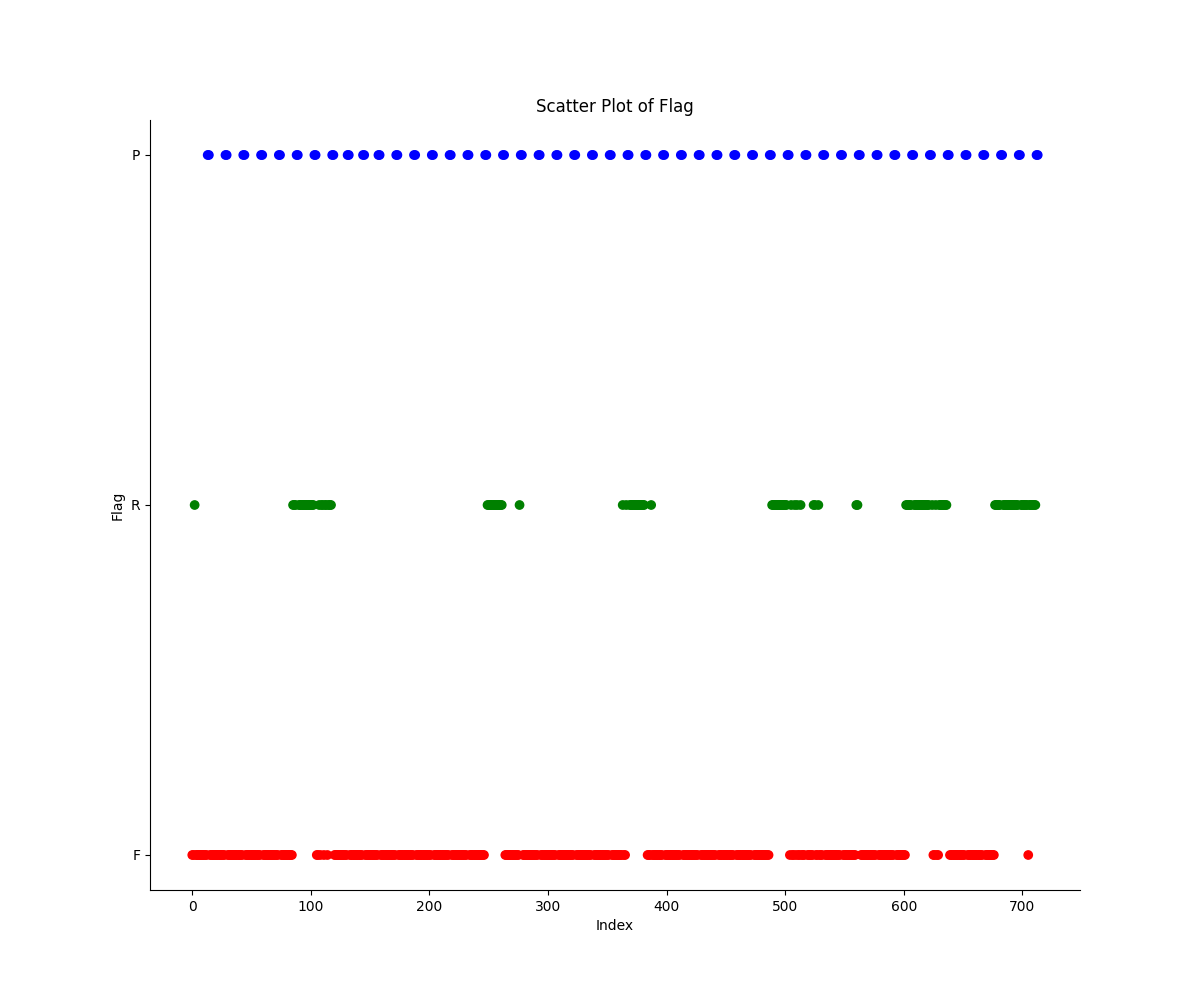
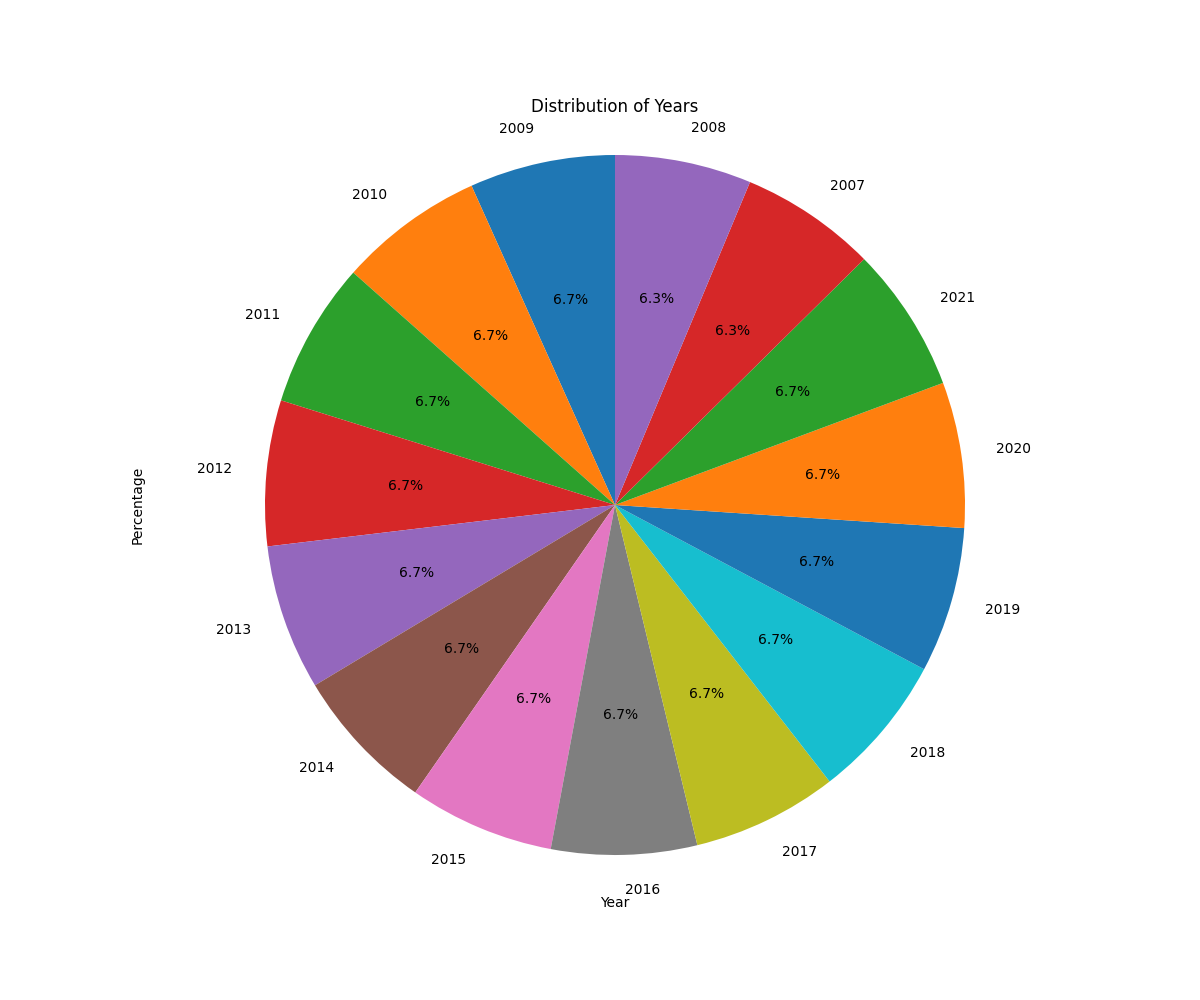
code module

diff --git a/main.py b/main.py
@@ -13,11 +13,12 @@ load_dotenv()
 openai.api_key = os.getenv("OPENAI_API_KEY")
 
 figure = "my_plot1"
+code = "generated_script.py"
 plot_area = None
 path = ""
 question = " Ask me a question about the data. " 
 primer1,primer2 = "",""
-
+answer=""
 
 
 
@@ -37,14 +38,11 @@ Graphy_app = """
 |>
 
 <|
-<|{figure}|file_download|label=Download|>
+<|{figure}|file_download|label=Download Graph|><|{code}|file_download|label=Download Code|>
 |>
 
 <|{figure}|image|width="700px"|>
 
-<|
-<|{answer}|>
-|>
 
 
 
@@ -78,7 +76,7 @@ def plot_graph(state) -> None:
     try:
         if os.path.exists('my_plot1.png'):
             os.remove('my_plot1.png')
-            
+
         # Format the question 
         question_to_ask = format_question(primer1, primer2, state.question)   
         print(question_to_ask)
@@ -92,6 +90,7 @@ def plot_graph(state) -> None:
         answer = answer + "\nmy_plot = plt.gcf()\n" + "my_plot.savefig('my_plot1.png')\n"
         
         print(answer,"\n end")
+        
         state.answer = answer
         # plot_area = 
         # plot_area = exec(answer)
@@ -106,7 +105,8 @@ def plot_graph(state) -> None:
         # exec(answer)  
         #sleep the program for 1 second to allow the file to be created
         time.sleep(1)
-        state.figure = "my_plot1.png"   
+        state.figure = "my_plot1.png"       
+        state.code = "generated_script.py"
         state.df = df
     except Exception as e:
         if type(e) == openai.error.APIError:

diff --git a/generated_script.py b/generated_script.py
@@ -4,14 +4,31 @@ fig,ax = plt.subplots(1,1,figsize=(12,10))
 ax.spines['top'].set_visible(False)
 ax.spines['right'].set_visible(False) 
 df=pd.read_csv("data.csv")
-df['flag'] = df['flag'].astype('category')
-fig,ax = plt.subplots(1,1,figsize=(12,10))
-ax.spines['top'].set_visible(False)
-ax.spines['right'].set_visible(False)
-colors = {'F':'red', 'R':'green', 'P':'blue'}
-ax.scatter(df.index, df['flag'], c=df['flag'].map(colors))
-ax.set_xlabel('Index')
-ax.set_ylabel('Flag')
-ax.set_title('Scatter Plot of Flag')
+# Filter the dataframe to only include the 'year' column
+year_df = df['year']
+
+# Group the values by year and count the occurrences
+year_counts = year_df.value_counts()
+
+# Get the labels and sizes for the pie chart
+labels = year_counts.index.tolist()
+sizes = year_counts.values.tolist()
+
+# Create the pie chart
+plt.pie(sizes, labels=labels, startangle=90, autopct='%1.1f%%')
+plt.axis('equal')
+
+# Set the title and labels
+plt.title('Distribution of Years')
+plt.xlabel('Year')
+
+# Set the x and y axes labels
+plt.xlabel('Year')
+plt.ylabel('Percentage')
+
+# Remove the figure suptitle
+fig.suptitle('')
+
+# Show the graph
 my_plot = plt.gcf()
 my_plot.savefig('my_plot1.png')
